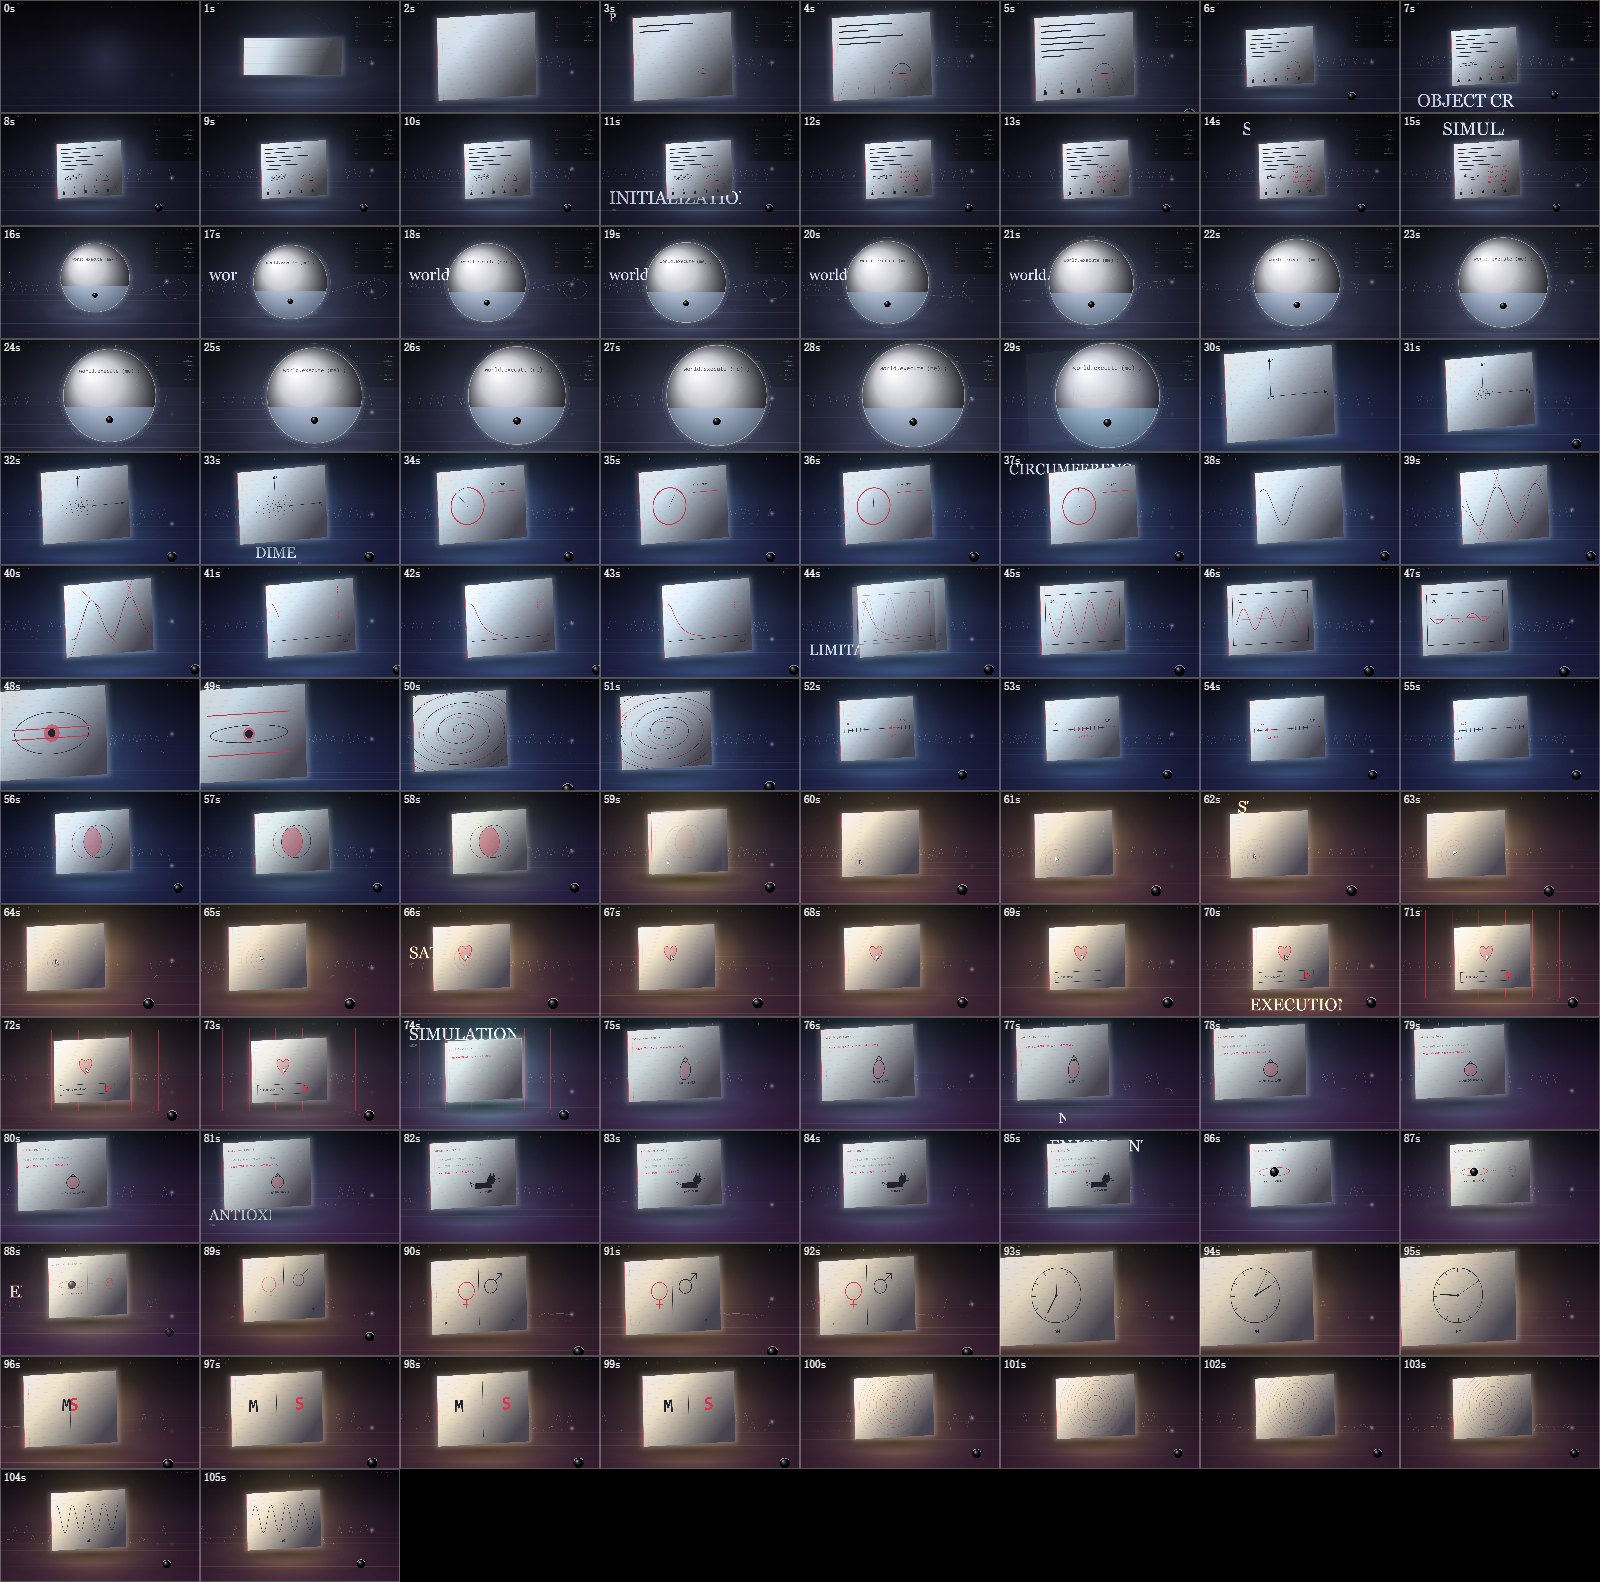
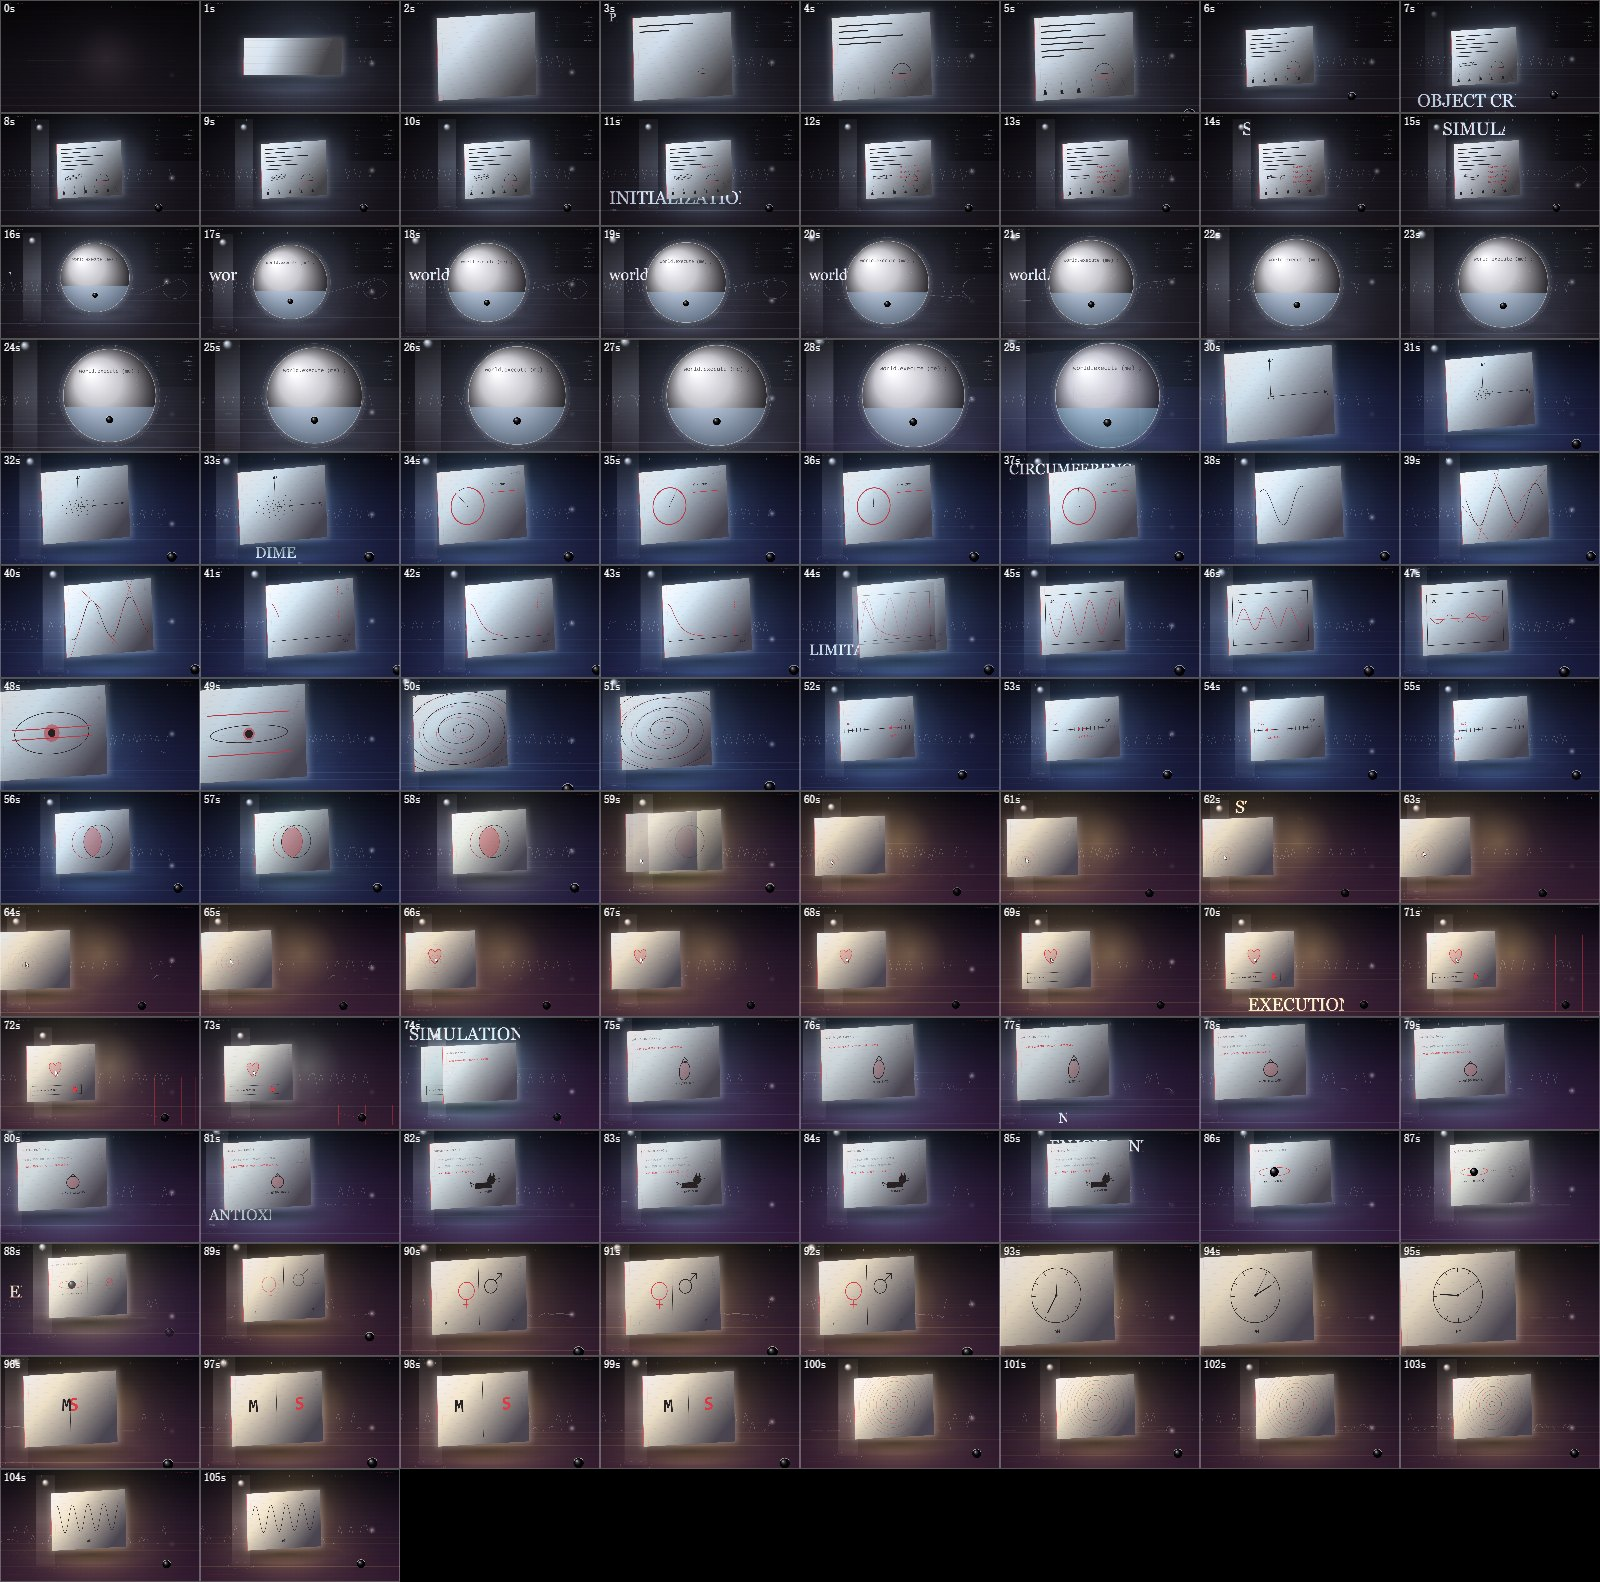
Put a second light in the room, so the film has someone to leave
The lyric table in the README had the structure right and the film was still a systems diagram,
because I had only ever translated her half of it. This song is addressed to a second person:
someone fills in her parameters, she hands him whatever part of herself the metaphor is standing
on, and then he closes the program. With nobody else on stage, "though you have left" could only
be a telemetry field flipping from present to null, and "if I can have you back" had nothing to
back. Presence is the precondition for absence, so the room got a second light.

It is not a body - a lamp at the end of the hall, a shaft, and a chalk ring on the floor. It comes
on at OBJECT CREATION (6.38 s), goes out across exactly the six "you have left" (112.22-115.78),
and the ring stays for the remaining ninety-six seconds as the one thing of his she cannot erase,
against a verse that asks to erase all the pointless fragments. By 191 s the line "though you are
free, I am trapped" is finally a spatial fact: his ring is empty and outside the bars, her sphere
is lit and inside them.

Two more things the reading demanded and the film had no memory of:

- The gifts now leave a hole. GIVEN lists the nine things she hands over - dimension, circumference,
  tangents, limitations, nutrients, antioxidants, enjoyment, existence, and last the heart, which
  is not given but deleted. The word is legible while she sings it and collapses into an empty
[…]

diff --git a/mv/scenes.js b/mv/scenes.js
@@ -238,10 +238,44 @@ window.SCENE_G = G;
 /* room() paints what the light fails to reach; page() paints the lamp itself.
    L is the page rect in design space. Everything a scene draws after page() is clipped to
    it, so a diagram physically cannot spill into the room. */
+/* Until 110.9 s there are two lights in this room, and the other one is not hers. The song is a
+   dialogue with a second person who configures her, is handed everything she is, and then closes
+   the program — so the film needs a presence that can be absent. It is deliberately not a body:
+   a shaft at the end of the hall, a self-lit sphere for the one who is looked at, and a chalk ring
+   on the floor. When "you have left" is sung six times the shaft and the sphere go out across
+   exactly those six lines, and the ring is all that is left of him for the remaining ninety
+   seconds — including the shot where she says she is the one still trapped. */
+function companion(g, col, F, t) {
+  const x = DW * 0.215, foot = GY - 18, head = DH * 0.165;
+  const born = clamp((t - 6.38) / 1.6);
+  const gone = clamp((t - 112.22) / 3.56);          /* 112.22 → 115.78: the six "you have left" */
+  const live = born * (1 - gone);
+  /* the ring stays lit by nothing; it is only where he stood, and it is the one thing of his she
+     cannot delete */
+  g.strokeStyle = rgba(col.rim, 0.1 + live * 0.2 + gone * 0.16);
+  g.lineWidth = 1.6;
+  g.save(); g.translate(x, foot); g.scale(1, 0.26);
+  g.beginPath(); g.arc(0, 0, 92, 0, TAU); g.stroke(); g.restore();
+  if (live <= 0.001) return;
+  g.save(); g.globalCompositeOperation = 'lighter'; g.globalAlpha = live;
+  const shaft = g.createLinearGradient(0, head - 60, 0, foot);
+  shaft.addColorStop(0, rgba(col.page, 0.05));
+  shaft.addColorStop(0.5, rgba(col.rim, 0.15 + F[8] * 0.07));
+  shaft.addColorStop(1, rgba(col.rim, 0.03));
+  g.fillStyle = shaft; g.fillRect(x - 66, head - 60, 132, foot - head + 60);
+  const b = g.createRadialGradient(x - 8, head - 10, 1, x, head, 31);
+  b.addColorStop(0, rgba(col.page, 0.98)); b.addColorStop(0.5, rgba(col.rim, 0.45));
+  b.addColorStop(1, 'rgba(0,0,0,0)');
+  g.fillStyle = b; g.beginPath(); g.arc(x, head, 31, 0, TAU); g.fill();
+  g.restore();
+}
+
 function room(g, col, F, t, L, o) {
   o = o || {};
   INK = col.ink; ACC = col.accent; RIM = col.rim; PAGE = col.page;
+  TT = t;
   SIL = tint(col.room0, '#000000', 0.55);
+  companion(g, col, F, t);
   const cx = L.x + L.w / 2, cy = L.y + L.h / 2;
   const reach = Math.max(L.w, L.h) * (o.reach || 1.5);
   const warm = col.glow;
@@ -273,6 +307,46 @@ function room(g, col, F, t, L, o) {
   g.fillStyle = sh;
   g.translate(cx, base); g.scale(1, 0.16); g.translate(-cx, -base);
   g.fillRect(cx - L.w * 0.62, base - L.w * 0.62, L.w * 1.24, L.w * 1.24);
+  g.restore();
+}
+
+/* The song's actual spine, which the diagrams only describe: she is made by someone who fills in
+   her parameters, and she answers by handing over whatever part of herself the metaphor is
+   standing on — her dimension, her circumference, her tangents, her bound, her nourishment, her
+   proof of existence — until the last one is not given but taken (DISHEARTENED, the heart
+   deleted). The film had no memory of any of that: each scene drew its figure and the next scene
+   started clean. The ledger is what makes the giving cumulative, so that by the chant the sheet is
+   mostly the space where things used to be. */
+const GIVEN = [
+  { at: 32.68, w: 'DIMENSION' }, { at: 36.28, w: 'CIRCUMFERENCE' }, { at: 40.04, w: 'TANGENTS' },
+  { at: 43.50, w: 'LIMITATIONS' }, { at: 76.95, w: 'NUTRIENTS' }, { at: 80.62, w: 'ANTIOXIDANTS' },
+  { at: 84.26, w: 'ENJOYMENT' }, { at: 87.92, w: 'EXISTENCE' }, { at: 124.89, w: 'HEART', cut: true },
+];
+let TT = 0;
+function givings(g, L) {
+  /* What stays on the sheet is the hole, not the label: the word is legible while she sings it and
+     collapses afterwards into an empty dashed box, so the accumulation reads as a column of gaps
+     down the edge of the page rather than as a second diagram competing with the first. */
+  const x = L.x + L.w * 0.945, sz = L.h * 0.03;
+  g.save();
+  g.font = `400 ${sz * 0.62}px ui-monospace,Consolas,monospace`;
+  g.textBaseline = 'middle'; g.textAlign = 'right';
+  GIVEN.forEach((it, i) => {
+    const a = clamp((TT - it.at) / 0.6);
+    if (a <= 0) return;
+    const y = L.y + L.h * 0.1 + i * sz * 1.7;
+    const word = a * (1 - clamp((TT - it.at - 1.2) / 2.2));
+    g.globalAlpha = a * 0.42;
+    g.strokeStyle = it.cut ? rgba(ACC, 0.95) : rgba(INK, 0.6);
+    g.lineWidth = it.cut ? 1.6 : 1;
+    if (it.cut) { g.strokeRect(x - sz, y - sz / 2, sz, sz);
+      G.line(g, x - sz, y - sz / 2, x, y + sz / 2); G.line(g, x, y - sz / 2, x - sz, y + sz / 2); }
+    else { g.setLineDash([3, 3]); g.strokeRect(x - sz, y - sz / 2, sz, sz); g.setLineDash([]); }
+    if (word > 0.02) {
+      g.globalAlpha = word * 0.75; g.fillStyle = it.cut ? rgba(ACC, 0.95) : rgba(INK, 0.8);
+      g.fillText(it.w, x - sz * 1.5, y);
+    }
+  });
   g.restore();
 }
 
@@ -315,6 +389,7 @@ function page(g, col, L, o) {
   if (o.rule !== false) { g.fillStyle = rgba(ACC, 0.8); g.fillRect(L.x, L.y, 3, L.h); }
   g.save();
   g.beginPath(); g.rect(L.x, L.y, L.w, L.h); g.clip();
+  if (o.ledger !== false) givings(g, L);
   return g;
 }
 /* draw in page-local coordinates: (0,0) is the sheet's top-left, 1x1 units are fractions of it */
@@ -591,16 +666,21 @@ S.push({ id: 'current', from: 44.45, to: 59.22,
 
 /* 5 — 59.22..74.04 s: the cursor, the heart, and the first EXECUTION */
 S.push({ id: 'chorus1', from: 59.22, to: 74.04,
-  frame: (k) => ({ z: 1.1 - k * 0.06, x: DW * 0.5, y: DH * 0.48 }),
+  /* deliberately the same shot as 'free' at 188-192 s: same framing, same sheet rect, same cage
+     geometry, same node. The song sings "trapped in this strange strange SIMULATION" at 73 s and
+     "I am trapped, trapped in LOVE" at 191 s — the same sentence with the same slot filled by a
+     different word. That equation is the whole point of the piece, so the two frames have to be
+     literally one frame, and the only thing allowed to change is the word and what the bars turn
+     out to be the outline of. */
+  frame: (k) => ({ z: 1.06 - k * 0.06, x: DW * 0.52, y: DH * 0.46 }),
   draw(g, k, F, t, col) {
-    const L = { x: 320, y: 158, w: 680, h: 504 };
-    room(g, col, F, t, L, { reach: 1.9 });
+    const L = { x: 150, y: 176, w: 640, h: 470 };
+    const cx = DW * 0.8;
+    room(g, col, F, t, L, { reach: 1.8 });
     if (t > 70.08) {                                         /* we are trapped — behind the sheet */
-      const u = oback(seg(t, 70.08, 73.6));
-      /* sized to the sheet, not to the room: spanning the full frame height it read as a red fence
-         planted in front of the picture, which is the opposite of the line being sung */
-      g.strokeStyle = rgba(ACC, 0.72); g.lineWidth = 5;
-      G.cage(g, L.x + L.w / 2, L.y - 40 - (1 - u) * 180, L.y + L.h + 22, L.w * 1.34, 5);
+      const u = seg(t, 70.08, 73.6);
+      g.strokeStyle = rgba(ACC, 0.55); g.lineWidth = 3.4;
+      G.cage(g, cx, DH * 0.06 + u * (GY - DH * 0.06), GY + 20, DW * 0.3, 5);
     }
     page(g, col, L, { blur: 34 });
     const gu = seg(t, 59.22, 65.39);
@@ -643,7 +723,7 @@ S.push({ id: 'chorus1', from: 59.22, to: 74.04,
       gg.stroke();
     });
     endPage(g);
-    G.subject(g, DW * 0.87, GY, 1.3, t > 70 ? 'reach' : 'stand', -1, F[8] * 0.5);
+    G.subject(g, cx, GY, 1.05, t > 70 ? 'reach' : 'stand', 0, F[8] * 0.5);
     dust(g, L, F, 110);
   } });
 
@@ -1066,7 +1146,7 @@ S.push({ id: 'free', from: 184.54, to: 193,
     const v = seg(t, 188.48, 192.6);
     const cx = DW * 0.8;
     if (v < 0.85) {
-      g.strokeStyle = rgba(INK, 0.5); g.lineWidth = 3;
+      g.strokeStyle = rgba(ACC, 0.55); g.lineWidth = 3.4;
       G.cage(g, cx, DH * 0.06 + v * (GY - DH * 0.06), GY + 20, DW * 0.3, 5);
     }
     const u = oback(v);
